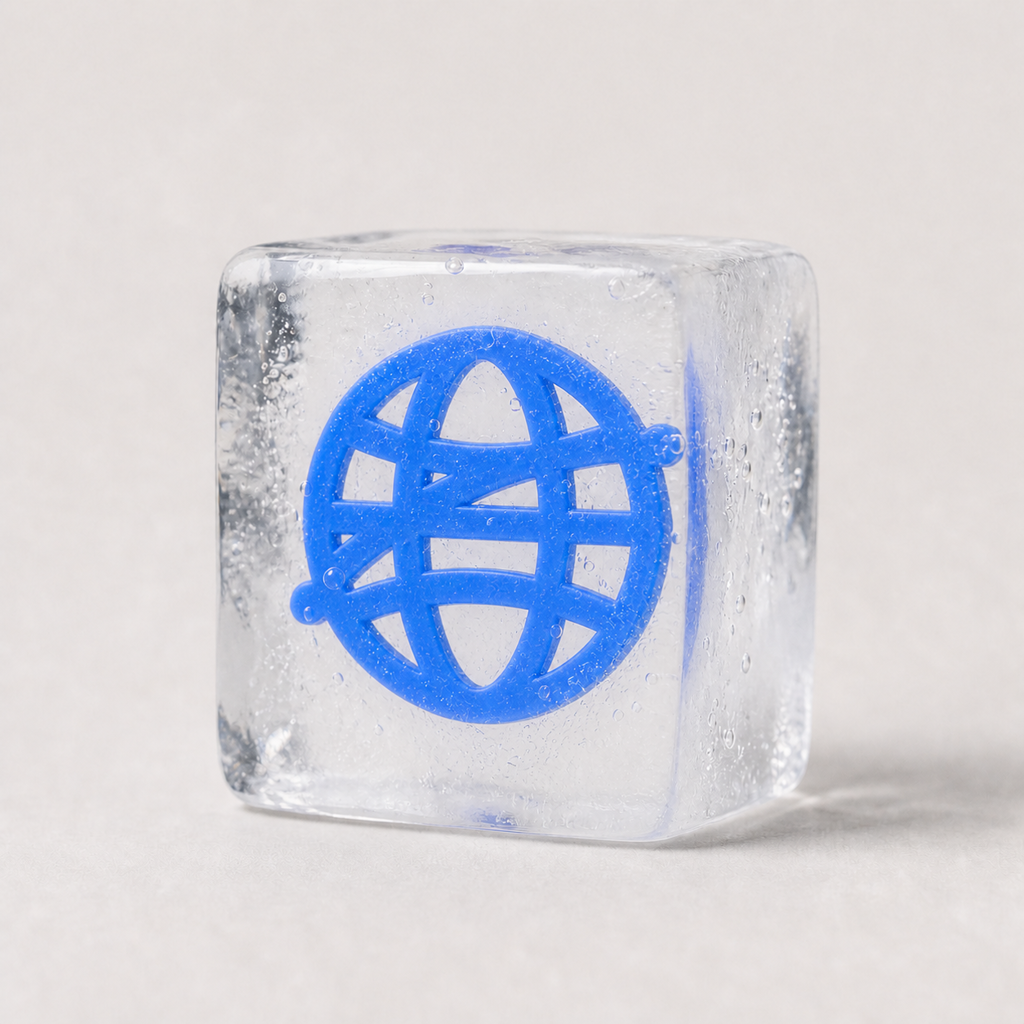
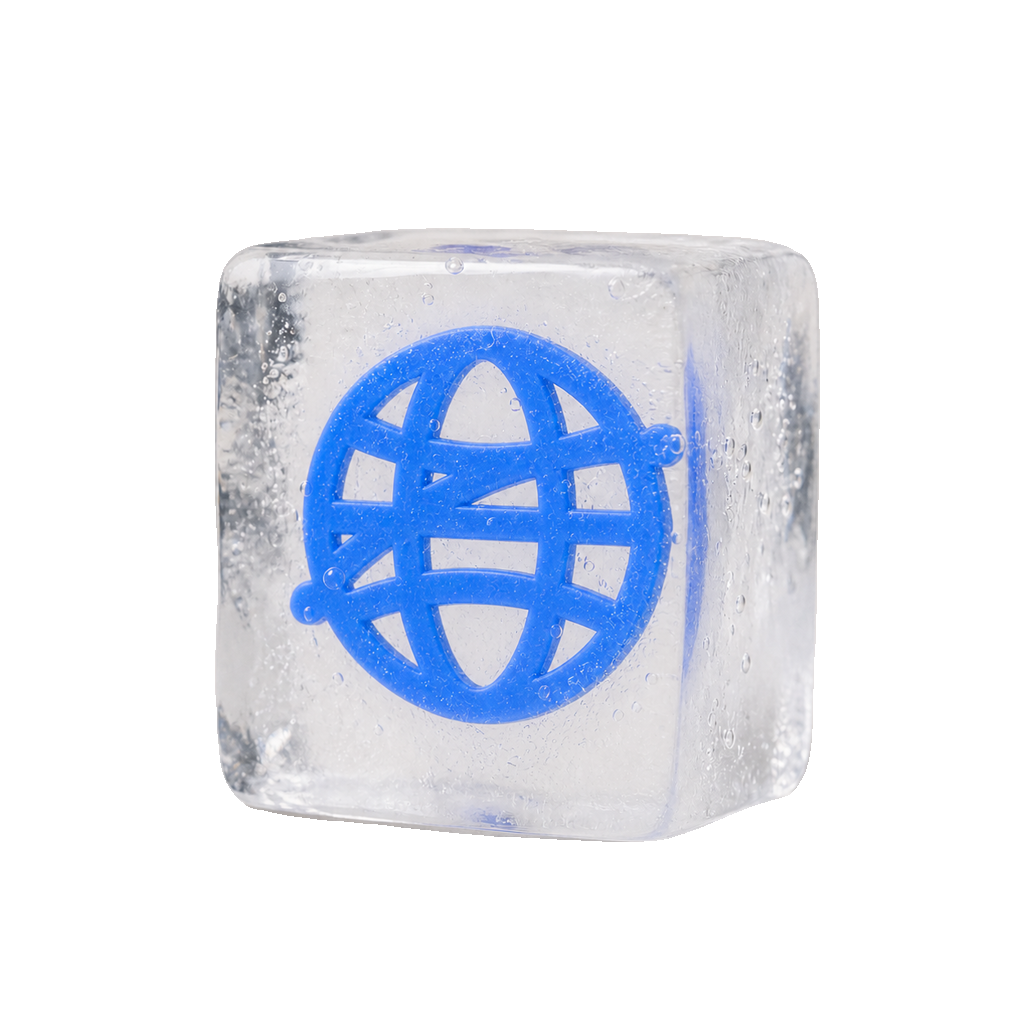
fix(brand): make ice hero background transparent

diff --git a/assets/brand/README.md b/assets/brand/README.md
@@ -7,10 +7,10 @@ The Atlas mark belongs to the shared Heliantheon visual family: geometric constr
 | `mark.svg` | Primary full-color vector mark |
 | `mark-monochrome.svg` | Single-color mark for neutral surfaces |
 | `icon-512.png` | Raster icon for platforms that do not accept SVG |
-| `hero-ice.png` | Ice-block hero for README and promotional use |
+| `hero-ice.png` | Transparent ice-block hero for README and promotional use |
 
 - Accent: `#1677FF`
 - Keep clear space around the mark equal to at least one eighth of its width.
 - Do not stretch, rotate, recolor, add effects, or combine the mark with another product emblem.
 - Prefer the primary mark on white or very light neutral backgrounds; use the monochrome mark when color is unavailable.
-- Use the ice-block hero at 256 px or larger; do not use it as a favicon or small interface icon.
+- Use the ice-block hero at 256 px or larger, keep its canvas transparent, and do not use it as a favicon or small interface icon.
